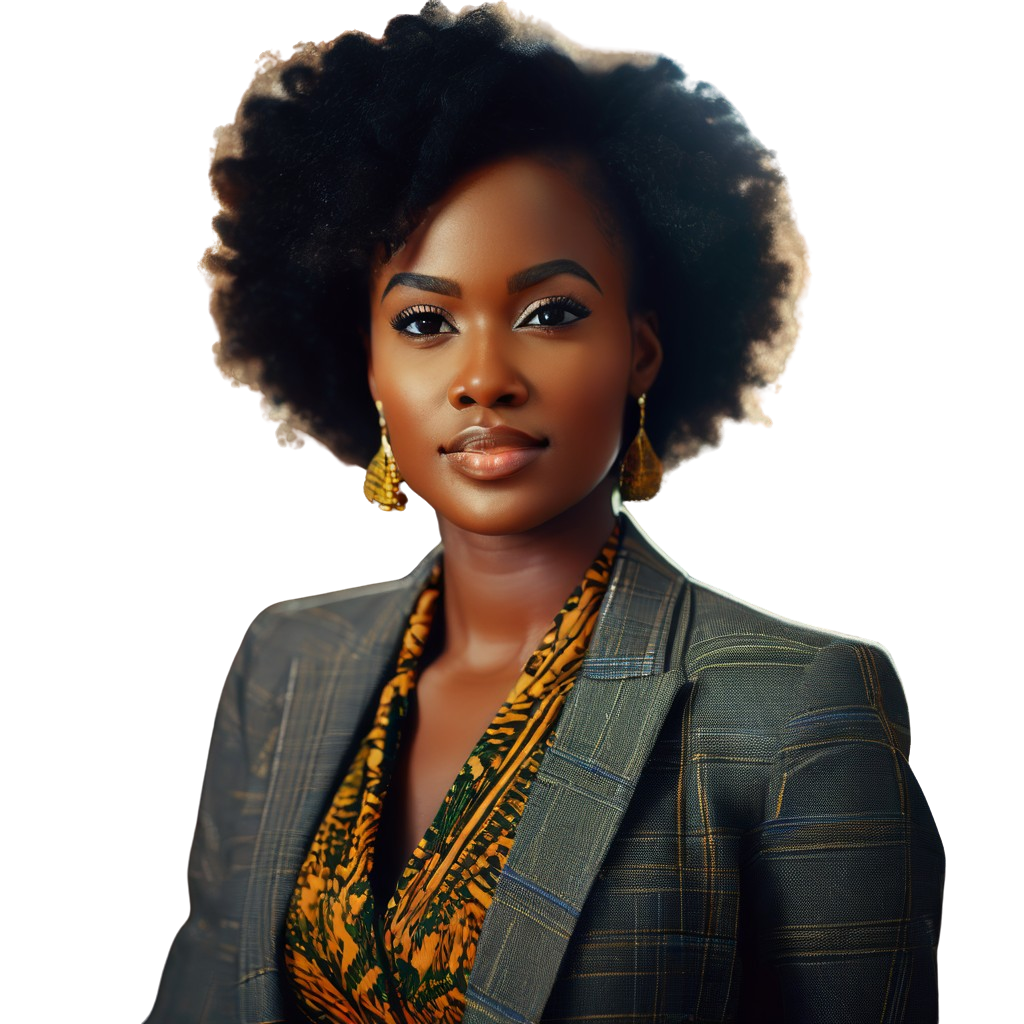
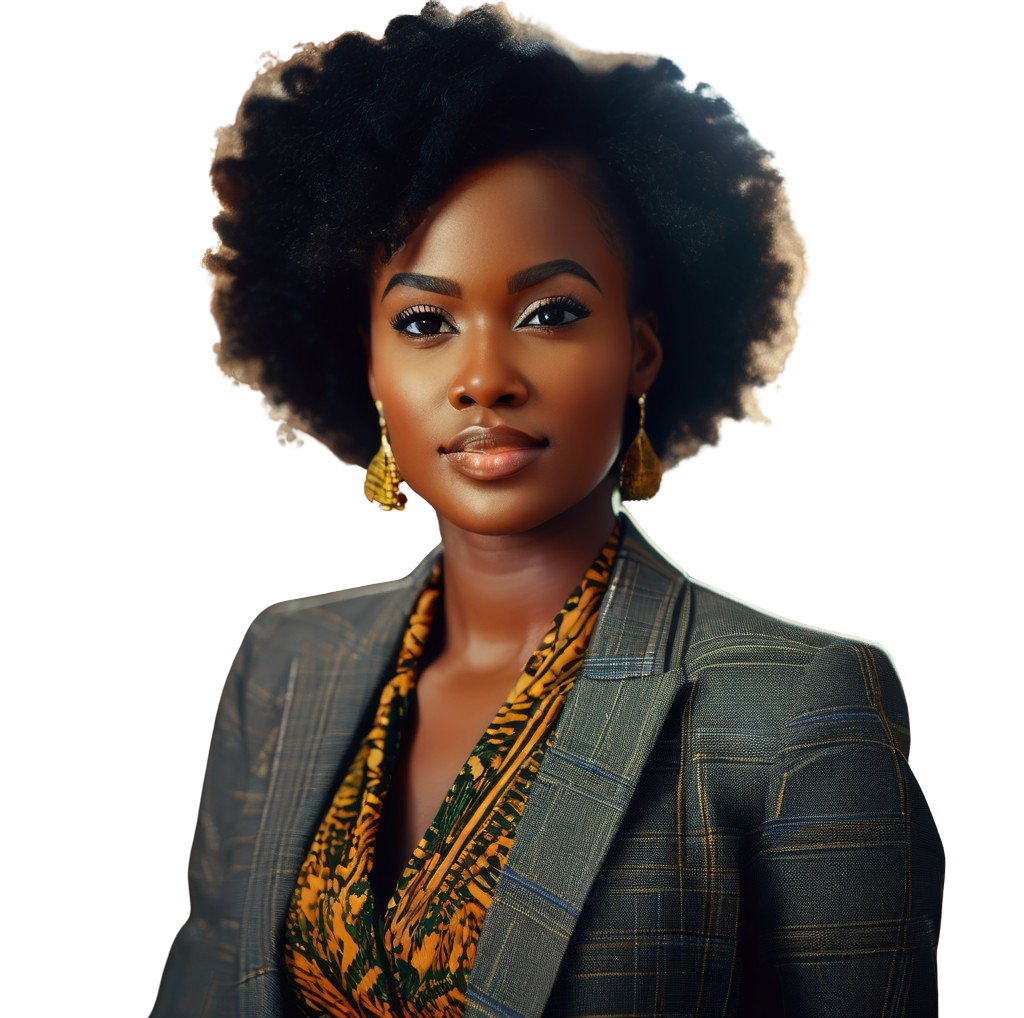
modified:   css/main.css 	modified:   images/3-removebg.png 	new file:   images/9r.png 	modified:   index.html

diff --git a/index.html b/index.html
@@ -72,7 +72,7 @@
           <div class="hero-text-container">
             <p class="hero-subtitle">Hello, My name is Annabel.</p>
 
-          <h1 style="font-size: 2rem;">I'm a Web Developer</h1>
+          <h1 style="font-size: 2rem;">I'm a Software Developer</h1>
           <p>with over 5 years of experience.</p>
 
           
@@ -85,22 +85,19 @@
           </div>
 
           <div class="hero-banner-container">
-            <div class="hero-banner">
-              <figure >
-                <img src="images/3-removebg.png" width="400"
-                  alt="Annabel">
-              </figure>
-            </div>
+              <img src="images/3-removebg.png" width="70%" alt="Annabel">
           </div>
         </div>
 
         <article>
           <div class="about-section">
             <div class="about-image-container">
-              <img src="images/9.jpg" alt="Annabel" width="400">
+              <img src="images/9r.png" alt="Annabel" width="70%">
             </div>
             <div class="about-statement-container">
-              <p>I am a WEB DEVELOPER</p>
+              <p>I am a</p>
+              <h1>Software Developer</h1> 
+              <p>with over 5 years of experience in developing a wide range of websites and mobile applications. My expertise spans from creating dynamic ecommerce platforms to crafting sleek landing pages, corporate websites, and personalized profiles. I possess a deep understanding of Python, Django, REST APIs, Dart, Flutter, HTML, CSS, Bootstrap, JavaScript, React, jQuery. Additionally, I have a solid grasp of AWS Cloud services, allowing me to build and deploy scalable and robust applications efficiently.</p>
             </div>
           </div>
         </article>

diff --git a/css/main.css b/css/main.css
@@ -14,6 +14,7 @@ a {
 :root {
     --background1: hsla(41, 99%, 64%, 0.1);
     --background2: hsla(41, 99%, 64%, 0.4);
+    --background3: rgb(182, 232, 232);
     --yellow: hsl(41, 99%, 64%);
     --orange-red_a20: hsla(19, 100%, 55%, 0.2);
     --black-shade: hsl(210, 11%, 15%);
@@ -148,7 +149,6 @@ body {
     flex-direction: column;
     justify-content: center;
     width: 50%;
-
 }
 
 .hero-banner-container {
@@ -156,6 +156,11 @@ body {
     justify-content: center;
     width: 50%;
     align-items: baseline;
+    background-color: var(--background3);
+    padding: 0;
+    margin: 0;
+    border-top-left-radius: 50%;
+    border-bottom-right-radius: 50%;
 }
 
 
@@ -178,7 +183,7 @@ color: rgb(255, 220, 174);
     position: relative;
     margin: 1em;
     border-radius: 10px;
-    padding: 1em;
+    padding: 0;
     background-color: var(--gray3);
     display: flex;
     justify-content: space-between;
@@ -190,6 +195,11 @@ color: rgb(255, 220, 174);
     justify-content: center;
     align-items: baseline;
     width: 50%;
+    background-color: var(--background3);
+    padding: 0;
+    margin: 0;
+    border-top-left-radius: 50%;
+    border-bottom-right-radius: 50%;
 }
 
 .about-section .about-statement-container {
@@ -198,19 +208,6 @@ color: rgb(255, 220, 174);
     width: 50%;
 }
 
-.about-section::after {
-    content: "";
-    position: absolute;
-    top: 30%;
-    left: 70%;
-    bottom: 15%;
-    right: 3%;
-    background-color: var(--background1);
-    transform: rotate(-60deg);
-    border-radius: 50%;
-    z-index: 1;
-    }
-  
 
 
 
